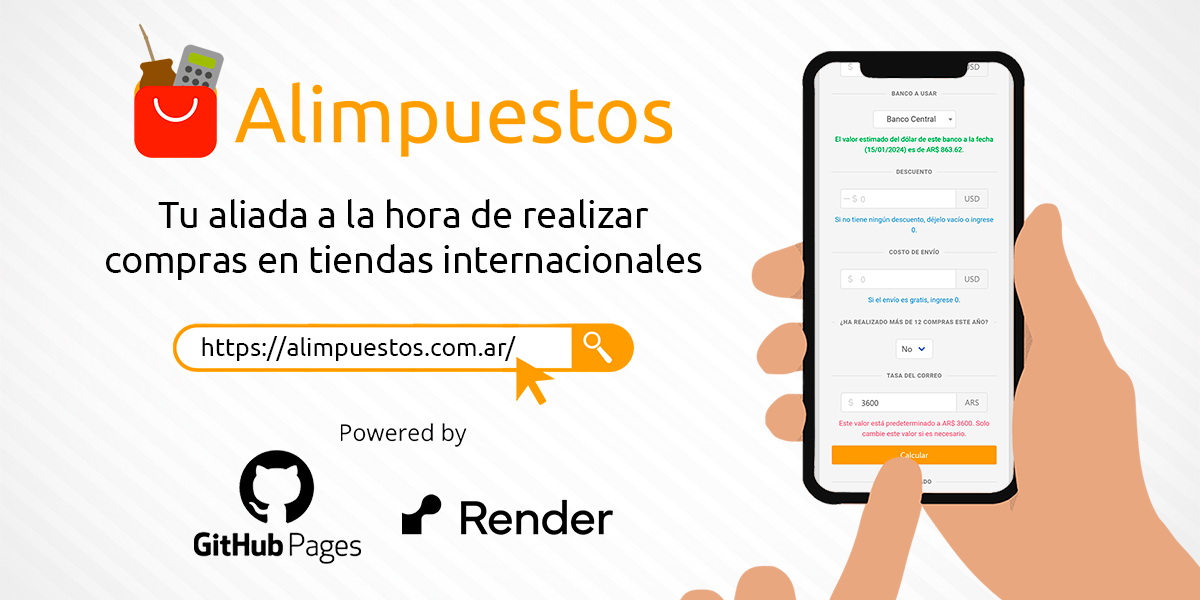
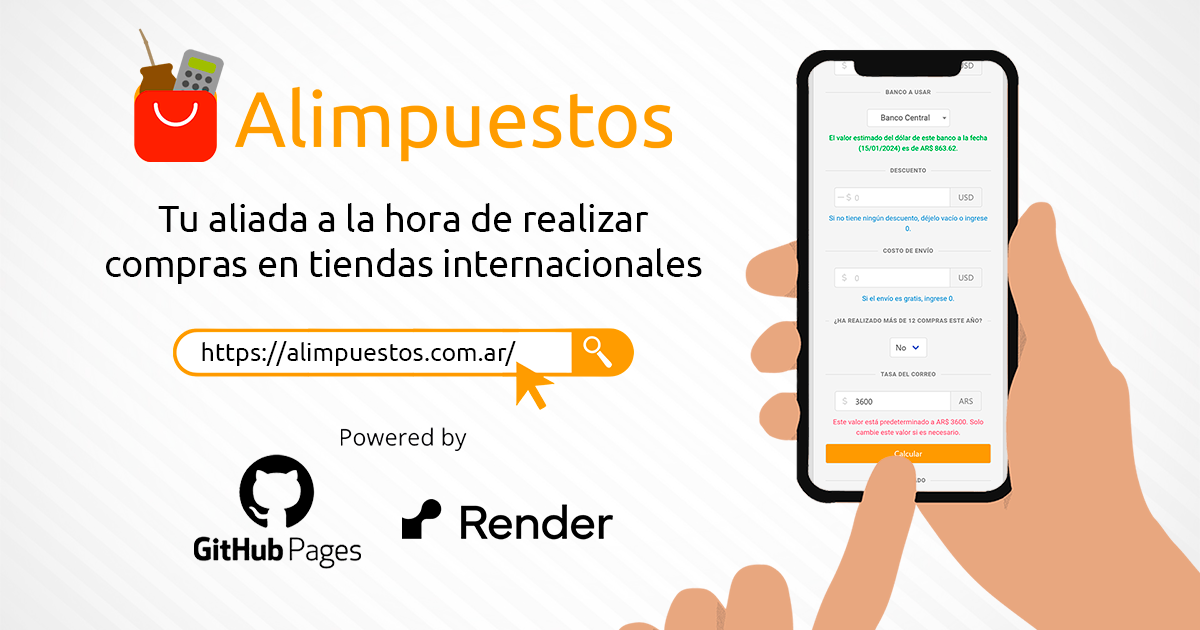
cambio en el meta de nuevo

diff --git a/legales.html b/legales.html
@@ -5,30 +5,32 @@
     <meta charset="UTF-8">
     <meta name="viewport" content="width=device-width, initial-scale=1.0">
     <title>Alimpuestos - Calculadora de Impuestos</title>
-    <!-- Meta Tags -->
-    <meta property="og:title" content="Alimpuestos - Calculadora de Impuestos">
-    <meta property="og:description"
-        content="Calculadora de Impuestos. Calcula cuánto vas a pagar por un producto, incluyendo impuestos y tasas.">
-    <meta property="og:image" content="https://alimpuestos.com.ar/assets/img/banner-meta.png">
-    <meta property="og:image:width" content="1200">
-    <meta property="og:image:height" content="600">
-    <meta property="og:url" content="https://alimpuestos.com.ar/">
-    <!-- Google Meta Tags -->
-    <meta name="author" content="MixDevCode">
-    <meta name="keywords"
-        content="calculadora de impuestos, alimpuestos, calculadora aduana, argentina, impuestos en línea, comercio en línea">
-    <meta name="description"
-        content="Calculadora de Impuestos. Calcula cuánto vas a pagar por un producto, incluyendo impuestos y tasas.">
-    <meta name="robots" content="index, follow">
-    <meta name="google-site-verification" content="tz0YynZQ61E3HRtZxp1iZCDc7P4GbMwRP8m0_2GvMls" />
-    <script async src="https://pagead2.googlesyndication.com/pagead/js/adsbygoogle.js?client=ca-pub-1938510658592260"
-     crossorigin="anonymous"></script>
-    <!-- Twitter Meta Tags -->
-    <meta name="twitter:title" content="Alimpuestos - Calculadora de Impuestos">
-    <meta name="twitter:site" content="@AlimpuestosAR">
-    <meta name="twitter:creator" content="@AlimpuestosAR">
-    <meta name="twitter:description" content="Calculadora de Impuestos para compras en tiendas internacionales. Calculá cuánto vas a pagar por un producto, incluyendo impuestos y tasas.">
-    <!-- Facebook Meta Tags -->
+     <!-- Meta Tags -->
+     <meta property="og:title" content="Alimpuestos - Calculadora de Impuestos">
+     <meta property="og:description"
+         content="Calculadora de Impuestos. Calcula cuánto vas a pagar por un producto, incluyendo impuestos y tasas.">
+     <meta property="og:image" content="https://alimpuestos.com.ar/assets/img/banner-meta.png">
+     <meta property="og:image:width" content="1200">
+     <meta property="og:image:height" content="630">
+     <meta property="og:url" content="https://alimpuestos.com.ar/">
+     <meta property="og:type" content="website">
+     <!-- Google Meta Tags -->
+     <meta name="author" content="MixDevCode">
+     <meta name="keywords"
+         content="calculadora de impuestos, alimpuestos, calculadora aduana, argentina, impuestos en línea, comercio en línea">
+     <meta name="description"
+         content="Calculadora de Impuestos. Calcula cuánto vas a pagar por un producto, incluyendo impuestos y tasas.">
+     <meta name="robots" content="index, follow">
+     <meta name="google-site-verification" content="tz0YynZQ61E3HRtZxp1iZCDc7P4GbMwRP8m0_2GvMls" />
+     <script async src="https://pagead2.googlesyndication.com/pagead/js/adsbygoogle.js?client=ca-pub-1938510658592260"
+      crossorigin="anonymous"></script>
+     <!-- Twitter Meta Tags -->
+     <meta name="twitter:card" content="summary_large_image">
+     <meta name="twitter:title" content="Alimpuestos - Calculadora de Impuestos">
+     <meta name="twitter:site" content="@AlimpuestosAR">
+     <meta name="twitter:creator" content="@AlimpuestosAR">
+     <meta name="twitter:description" content="Calculadora de Impuestos para compras en tiendas internacionales. Calculá cuánto vas a pagar por un producto, incluyendo impuestos y tasas.">
+     <!-- Facebook Meta Tags -->
     <meta name="facebook-domain-verification" content="t904sum7jzn2jkmmq6ll05e6zalf7e" />
     <!-- PWA Meta Tags -->
     <meta name="theme-color" content="#fd9900">

diff --git a/index.html b/index.html
@@ -11,8 +11,9 @@
         content="Calculadora de Impuestos. Calcula cuánto vas a pagar por un producto, incluyendo impuestos y tasas.">
     <meta property="og:image" content="https://alimpuestos.com.ar/assets/img/banner-meta.png">
     <meta property="og:image:width" content="1200">
-    <meta property="og:image:height" content="600">
+    <meta property="og:image:height" content="630">
     <meta property="og:url" content="https://alimpuestos.com.ar/">
+    <meta property="og:type" content="website">
     <!-- Google Meta Tags -->
     <meta name="author" content="MixDevCode">
     <meta name="keywords"
@@ -24,6 +25,7 @@
     <script async src="https://pagead2.googlesyndication.com/pagead/js/adsbygoogle.js?client=ca-pub-1938510658592260"
      crossorigin="anonymous"></script>
     <!-- Twitter Meta Tags -->
+    <meta name="twitter:card" content="summary_large_image">
     <meta name="twitter:title" content="Alimpuestos - Calculadora de Impuestos">
     <meta name="twitter:site" content="@AlimpuestosAR">
     <meta name="twitter:creator" content="@AlimpuestosAR">
